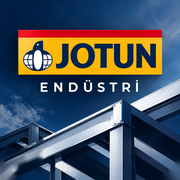
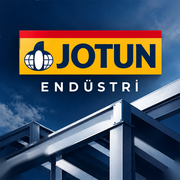
Yeni uygulama ikonu (web, iPhone, Android)
Claude-Session: https://claude.ai/code/session_01BJcMCUTwxuE85oxcF1959v

diff --git a/e-r1ty790qwz/index.html b/e-r1ty790qwz/index.html
@@ -1,8 +1,8 @@
 <!doctype html><html lang="tr"><head><meta charset="utf-8"><meta name="viewport" content="width=device-width,initial-scale=1,viewport-fit=cover">
 <link rel="manifest" href="manifest.webmanifest">
 <meta name="theme-color" content="#070d15" media="(prefers-color-scheme: light)"><meta name="theme-color" content="#000000" media="(prefers-color-scheme: dark)">
-<link rel="icon" type="image/png" sizes="192x192" href="icon-192.png">
-<link rel="apple-touch-icon" href="apple-touch-icon.png">
+<link rel="icon" type="image/png" sizes="192x192" href="icon-192.png?v=3">
+<link rel="apple-touch-icon" href="apple-touch-icon.png?v=3">
 <meta name="apple-mobile-web-app-capable" content="yes">
 <meta name="mobile-web-app-capable" content="yes">
 <meta name="apple-mobile-web-app-title" content="Jotun Endüstri">

diff --git a/e-r1ty790qwz/sw.js b/e-r1ty790qwz/sw.js
@@ -1,5 +1,5 @@
 /* Jotun Endüstri – çevrimdışı çalışma ve hızlı açılış */
-const CACHE = "jotun-endustri-e-r1ty790qwz-v2x";
+const CACHE = "jotun-endustri-e-r1ty790qwz-v3";
 const CORE = ["./", "./index.html", "./manifest.webmanifest", "./icon-192.png", "./icon-512.png", "./apple-touch-icon.png",
   "https://cdnjs.cloudflare.com/ajax/libs/html2canvas/1.4.1/html2canvas.min.js",
   "https://cdnjs.cloudflare.com/ajax/libs/jspdf/2.5.1/jspdf.umd.min.js"];
